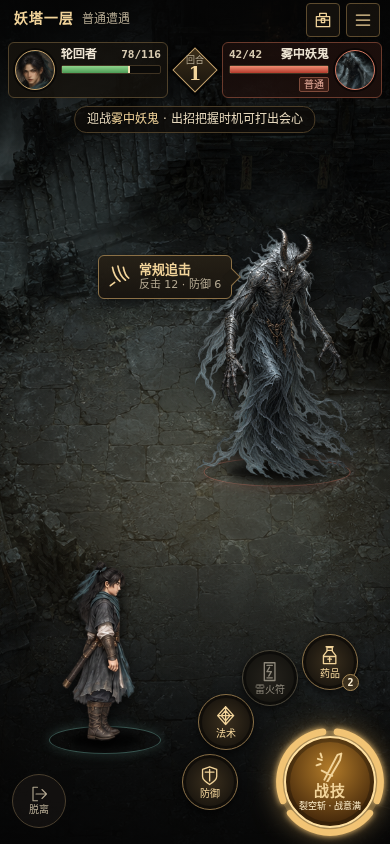
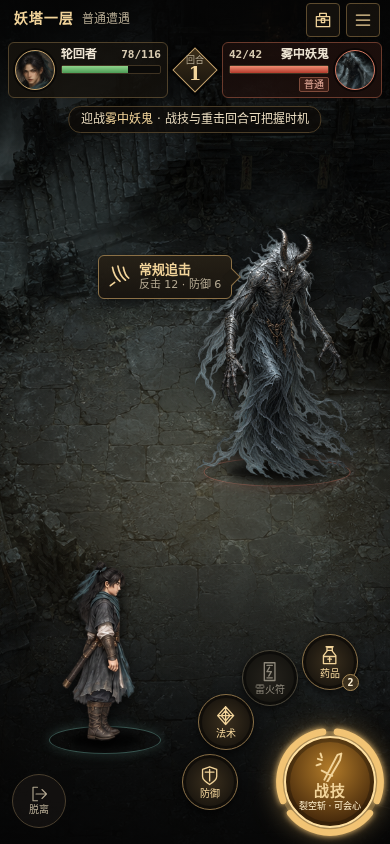
feat(infinite-flow): limit combat v2 timing checks to key moments
Only the weapon skill (full focus) and guarding a telegraphed heavy blow
open a timing check; ordinary attacks, guards, arts, talismans and pills
resolve immediately. The intent callout tags parryable heavy blows and
the ready attack button advertises the crit window.

Changed region(s): [[0.1846, 0.1232, 0.8308, 0.154], [0.8615, 0.9242, 0.9231, 0.9858]]

diff --git a/infinite-flow-wechat/prototype/combat-v2/app.js b/infinite-flow-wechat/prototype/combat-v2/app.js
@@ -82,12 +82,12 @@ function reset() {
     enemyName: boss ? '雾锋妖将' : '雾中妖鬼', boss,
     turn: scenario === 'heavy' ? 2 : 1, focus: scenario === 'focus' ? 3 : scenario === 'heavy' ? 1 : 0,
     pills: 2, talismans: scenario === 'talisman' ? 2 : 0, used: new Set(), guarded: false, breath: false,
-    busy: false, ended: false, log: [], streak: 0,
+    busy: false, ended: false, log: [],
   };
   enemyEl.querySelector('.enemy-art').style.height = boss ? 'calc(var(--enemy-h) * 1.12)' : '';
   if (sheet.open) sheet.close();
   setHeroFrame(8);
-  ticker(`迎战<em>${state.enemyName}</em> · 出招把握时机可打出会心`);
+  ticker(`迎战<em>${state.enemyName}</em> · 战技与重击回合可把握时机`);
   render();
 }
 
@@ -110,7 +110,7 @@ function render() {
   $('#encounter-kind').textContent = state.boss ? '首领遭遇' : '普通遭遇';
   $('#enemy-rank').textContent = state.boss ? '首领' : '普通';
   $('#enemy-rank').classList.toggle('boss', state.boss);
-  $('#hero-chips').innerHTML = [state.guarded && '守势', state.breath && '蓄息', state.streak > 1 && `会心连击 ×${state.streak}`]
+  $('#hero-chips').innerHTML = [state.guarded && '守势', state.breath && '蓄息']
     .filter(Boolean).map(chip => `<span>${chip}</span>`).join('');
 
   const bubble = $('#intent');
@@ -119,10 +119,10 @@ function render() {
   bubble.hidden = state.ended;
   $('#intent-icon').dataset.icon = intent.heavy ? 'heavy' : 'claw';
   paintIcons(bubble);
-  $('#intent-name').textContent = intent.name;
   $('#intent-detail').textContent = state.guarded
     ? `守势中 · 预计承伤 ${intent.guarded}`
     : `${intent.heavy ? '重击' : '反击'} ${intent.damage} · 防御 ${intent.guarded}`;
+  $('#intent-name').innerHTML = `${intent.name}${intent.heavy && !state.guarded ? '<em class="qte-chip">可格挡</em>' : ''}`;
 
   const ready = state.focus >= 3;
   const attack = $('#attack');
@@ -130,7 +130,7 @@ function render() {
   $('#attack-icon').dataset.icon = ready ? 'weapon' : 'attack';
   paintIcons(attack);
   $('#attack-label').textContent = ready ? '战技' : '攻击';
-  $('#attack-mode').textContent = ready ? '裂空斩 · 战意满' : `普攻 · 战意 ${state.focus}/3`;
+  $('#attack-mode').textContent = ready ? '裂空斩 · 可会心' : `普攻 · 战意 ${state.focus}/3`;
   attack.querySelectorAll('.seg').forEach((seg, index) => seg.classList.toggle('on', index < state.focus));
   attack.setAttribute('aria-label', ready ? '释放武器战技裂空斩' : `普通攻击，战意 ${state.focus}/3`);
 
@@ -439,12 +439,17 @@ async function perform(kind) {
     if (OFFENSIVE.has(kind)) {
       if (kind === 'attack' || kind === 'weapon') { dashed = true; await dashIn(gen); }
       else await castCharge(kind, gen);
-      grade = await timing('strike', gen);
+      // Only the weapon skill (a full focus gauge) earns a timing check; everything else strikes at once.
+      if (kind === 'weapon') grade = await timing('strike', gen);
       dealt = await strike(kind, grade, gen);
     } else if (kind === 'guard') {
-      enemyEl.classList.add('windup');
-      lean(enemyEl, 4, 300, gen).catch(() => {});
-      grade = await timing('parry', gen);
+      shieldMark(heroChest(), '#f2c475', false);
+      // Only a telegraphed heavy blow can be parried; an ordinary guard resolves immediately.
+      if (intent.heavy) {
+        enemyEl.classList.add('windup');
+        lean(enemyEl, 4, 300, gen).catch(() => {});
+        grade = await timing('parry', gen);
+      }
     } else if (kind === 'pill') {
       await drinkPill(gen);
     }
@@ -457,7 +462,6 @@ async function perform(kind) {
       : kind === 'guard' ? (intent.heavy ? 2 : 1) + (grade === 'perfect' ? 1 : 0)
         : 1;
     state.focus = Math.max(0, Math.min(3, state.focus + focusGain));
-    state.streak = OFFENSIVE.has(kind) ? (grade === 'perfect' ? state.streak + 1 : 0) : state.streak;
     state.turn++;
     report(kind, grade, dealt, taken, intent);
     if (state.enemyHp <= 0) await victory(gen);
@@ -476,8 +480,8 @@ async function castCharge(kind, gen) {
   const rune = svg('circle', { cx: chest.x, cy: chest.y + heroH() * .5, r: heroH() * .3, fill: 'none', stroke: color, 'stroke-width': 2.5, 'stroke-dasharray': '6 5' });
   rune.setAttribute('transform', `translate(0 0)`);
   rune.animate([{ opacity: 0 }, { opacity: 1 }], { duration: 200, fill: 'forwards' });
-  setTimeout(() => fade(rune, 240), 1100);
-  await lean(heroSprite, -4, 180, gen);
+  setTimeout(() => fade(rune, 200), 420);
+  await lean(heroSprite, -4, 220, gen);
 }
 
 async function strike(kind, grade, gen) {
@@ -524,7 +528,7 @@ async function counterAttack(kind, grade, intent, gen) {
   const enemy = enemyFoot();
   // Enemy lunges toward the hero, strikes, and returns to its mark.
   enemyEl.classList.add('windup');
-  if (kind !== 'guard') await wait(intent.heavy ? 260 : 160, gen);
+  if (grade === 'none') await wait(intent.heavy ? 260 : 160, gen);
   const reach = { x: hero.x + heroH() * .52 - enemy.x, y: hero.y - 10 - enemy.y };
   await animate(enemyEl, [{ transform: 'translate(0,0)' }, { transform: `translate(${reach.x}px,${reach.y}px)` }], { duration: 150, easing: 'ease-in' }, gen);
   const chest = heroChest();
@@ -614,10 +618,10 @@ function footButton(text, onClick, className = '') {
   button.addEventListener('click', onClick);
   $('#sheet-footer').append(button);
 }
-function card({ id, name, effect, timing, reason, qte }) {
+function card({ id, name, effect, timing, reason }) {
   const button = document.createElement('button');
   button.type = 'button'; button.className = 'card'; button.disabled = Boolean(reason);
-  button.innerHTML = `<strong>${name}</strong><p>${effect}</p><small>${reason || timing}${qte && !reason ? ' · <span class="qte-tag">可会心</span>' : ''}</small>`;
+  button.innerHTML = `<strong>${name}</strong><p>${effect}</p><small>${reason || timing}</small>`;
   button.addEventListener('click', () => perform(id));
   $('#sheet-content').append(button);
 }
@@ -626,7 +630,7 @@ function openGroup(group) {
   if (group === 'spells') {
     openSheet('法术', '点选即释放');
     $('#sheet-content').classList.add('cols');
-    card({ id: 'art', name: '术法攻击', effect: `术法伤害 ${state.breath ? 32 : 24}`, timing: '1 回合', qte: true });
+    card({ id: 'art', name: '术法攻击', effect: `术法伤害 ${state.breath ? 32 : 24}`, timing: '1 回合 · 敌人反击' });
     card({ id: 'mist', name: '归息', effect: '获得 1 层蓄息', timing: '每场一次 · 不耗回合', reason: state.used.has('mist') ? '本场已使用' : '' });
     card({ id: 'iron', name: '镇岳', effect: '进入守势', timing: '每场一次 · 不耗回合', reason: state.used.has('iron') ? '本场已使用' : '' });
   } else {
@@ -637,7 +641,7 @@ function openGroup(group) {
 }
 function openTalismanInfo() {
   openSheet('雷火符');
-  $('#sheet-content').innerHTML = '<div class="info"><h2>雷火符</h2><p>落雷造成术法伤害，出手时可打出会心。</p><p>本轮未携行雷火符，库存 0。</p></div>';
+  $('#sheet-content').innerHTML = '<div class="info"><h2>雷火符</h2><p>落雷造成术法伤害。</p><p>本轮未携行雷火符，库存 0。</p></div>';
   footButton('返回战斗', () => sheet.close(), 'wide');
 }
 function openFlee() {
@@ -651,7 +655,7 @@ function openPanel(panel) {
   if (panel === 'menu') {
     openSheet('菜单');
     $('#sheet-content').innerHTML = `<div class="info"><h2>战斗记录</h2><ol>${state.log.length ? state.log.map(line => `<li>${line}</li>`).join('') : '<li>尚未采取行动。</li>'}</ol></div>
-      <div class="info"><h2>时机操作</h2><p>攻击、战技、术法、雷火符：白圈与金圈重合时点击，打出会心（伤害 ×1.5）。</p><p>防御：红圈收拢到护盾时点击，完美格挡（承伤减半，战意额外 +1）。</p><p>不点或点偏按普通结算，不会比原来更差。</p></div>`;
+      <div class="info"><h2>时机操作</h2><p>只在两个关键时刻出现：战意攒满释放战技时，白圈与金圈重合点击打出会心（伤害 ×1.5）；敌人预告重击时按防御，红圈收拢点击完美格挡（承伤减半，战意额外 +1）。</p><p>普通攻击、普通防御、术法、符箓、药品都直接结算。不点或点偏按普通结算。</p></div>`;
   } else {
     openSheet('背包');
     $('#sheet-content').innerHTML = `<div class="info"><p>止血丹 × ${state.pills}</p><p>雷火符 × ${state.talismans}</p></div>`;

diff --git a/infinite-flow-wechat/prototype/combat-v2/style.css b/infinite-flow-wechat/prototype/combat-v2/style.css
@@ -290,7 +290,6 @@ dialog::backdrop { background: #0004; }
 .card strong { color: var(--bright); font-weight: 600; font-size: 13px; }
 .card p { margin: 0; font-size: 12px; color: #ded0b6; }
 .card small { margin-top: auto; font-size: 10px; color: var(--muted); }
-.card .qte-tag { color: #ffd77c; }
 .card:disabled { opacity: .55; }
 .info p { margin: 0 0 8px; font-size: 12px; color: #d2c5ae; line-height: 1.6; }
 .info h2 { margin: 2px 0 8px; font-size: 14px; color: var(--bright); font-weight: 600; }
@@ -332,3 +331,4 @@ dialog::backdrop { background: #0004; }
 .game.qte .controls, .game.qte .topbar { pointer-events: none; }
 .game.qte .world-layer { cursor: pointer; }
 .game.busy .intent-bubble { opacity: 0; transition: opacity .15s; }
+.qte-chip { margin-left: 5px; padding: 0 4px; border-radius: 3px; font: 600 9px/14px inherit; font-style: normal; vertical-align: 2px; color: #2a1505; background: #f2c475; }
